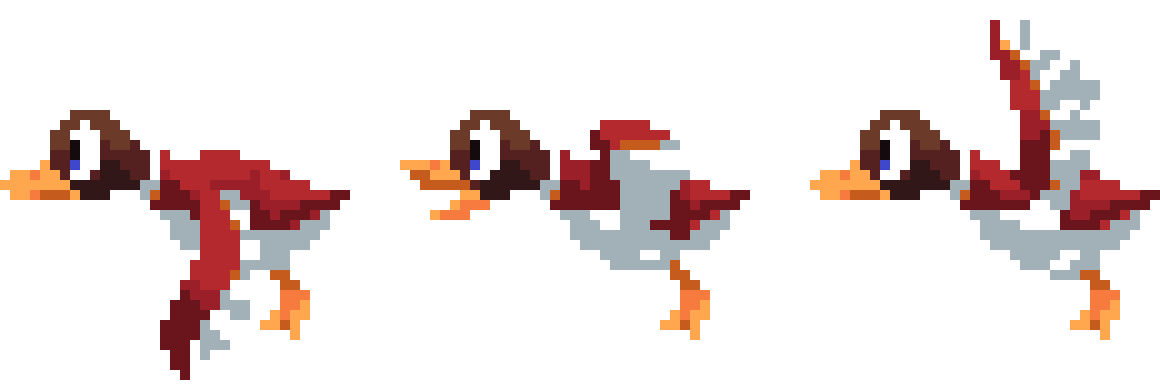
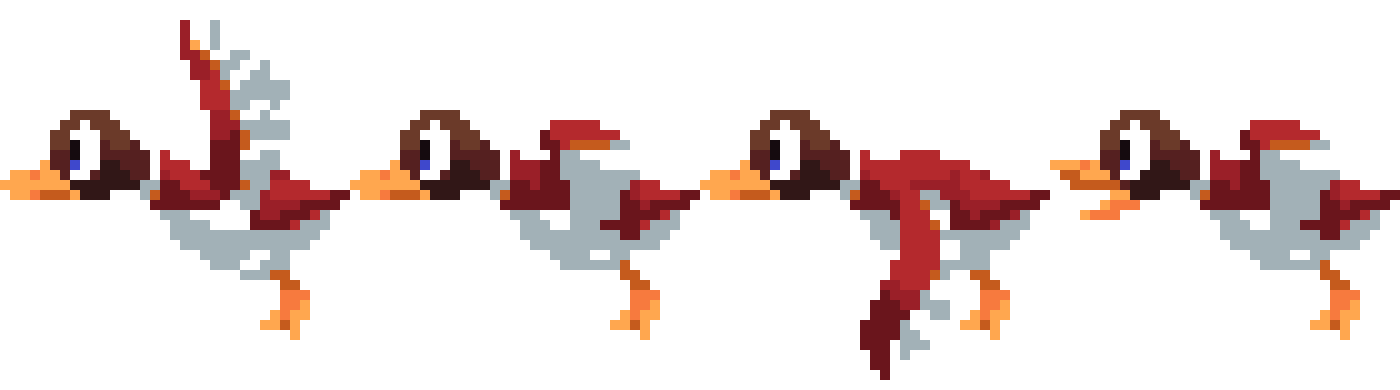
Added more sprites

Changed region(s): [[0.0, 0.0308, 0.9931, 0.9846]]

diff --git a/main.js b/main.js
@@ -182,10 +182,12 @@ function Duck() {
     } else {
       this.x += this.vx;
       this.y += this.vy;
-    }    
+    }
   };
   this.flewAway = () => {
-    if (this.isFalling) {return}
+    if (this.isFalling) {
+      return;
+    }
     if (Math.floor((frames - this.iframe) / fps) > 15) {
       this.isGone = true;
       this.isFlying = false;
@@ -193,9 +195,11 @@ function Duck() {
       this.vx = 0;
       this.vy = vMult * -10;
     }
-  }
+  };
   this.gotShot = () => {
-    if(this.isGone) {return}
+    if (this.isGone) {
+      return;
+    }
     this.color = "red";
     this.vx = 0;
     this.vy = vMult * 10;
@@ -312,29 +316,28 @@ function Round(n) {
   this.nduck = 40;
   this.numducks = 0;
   this.roundended = false;
-  this.nextRound = false
+  this.nextRound = false;
   this.fframe;
   this.refresh = () => {
     if (this.n === 0) {
       if (frames - this.iframe >= 40) {
-        this.nextRound = true
+        this.nextRound = true;
       }
-      return
+      return;
     }
     if (this.roundended) {
       if (ducks.length === 0 && frames - this.fframe >= 40) {
         if (duckHit.reduce((a, b) => a + b, 0) < 6) {
           gameOver();
         } else {
-          this.nextRound = true
+          this.nextRound = true;
         }
       }
-      
-    } else {      
+    } else {
       let random = Math.floor(1 + Math.random() * 5);
       this.cframe = frames - this.iframe;
-      if(this.cframe <= 35) {
-        drawRound()
+      if (this.cframe <= 35) {
+        drawRound();
       }
       if (this.cframe === this.nduck) {
         ducks.push(new Duck());
@@ -344,7 +347,7 @@ function Round(n) {
       }
       if (this.numducks >= 10) {
         this.roundended = true;
-        this.fframe = frames
+        this.fframe = frames;
       }
     }
   };
@@ -372,7 +375,12 @@ function pause() {
 function gameOver() {
   isPaused = true;
   ctx.fillStyle = "rgb(0,0,0,0.35)";
-  ctx.fillRect(canvas.width/4, canvas.height/4, canvas.width/2, canvas.height/2);
+  ctx.fillRect(
+    canvas.width / 4,
+    canvas.height / 4,
+    canvas.width / 2,
+    canvas.height / 2
+  );
   ctx.fillStyle = "rgb(240,70,51)";
   ctx.font = '80px "Duck Hunt"';
   ctx.textAlign = "center";
@@ -382,9 +390,15 @@ function gameOver() {
 
 function drawRound() {
   //ctx.fillStyle = "rgb(0,0,0,0.85)";
-  let image = new Image()
-  image.src = images.rndui
-  ctx.drawImage(image,canvas.width*1/3+25, canvas.height*1/3-25,canvas.width*1/3-50, canvas.height*1/3-50)
+  let image = new Image();
+  image.src = images.rndui;
+  ctx.drawImage(
+    image,
+    (canvas.width * 1) / 3 + 25,
+    (canvas.height * 1) / 3 - 25,
+    (canvas.width * 1) / 3 - 50,
+    (canvas.height * 1) / 3 - 50
+  );
   //ctx.fillRect(canvas.width*1/3, canvas.height*1/3, canvas.width*1/3, canvas.height*1/3);
   ctx.fillStyle = "white";
   ctx.font = '80px "Duck Hunt"';
@@ -418,10 +432,10 @@ function update() {
   environment.draw();
   scoreboard.draw();
   roundInst.refresh();
-  if(roundInst.nextRound) {
-    round++
-    roundInst = new Round(round)
-    bullets = 20
+  if (roundInst.nextRound) {
+    round++;
+    roundInst = new Round(round);
+    bullets = 20;
     duckHit = [0, 0, 0, 0, 0, 0, 0, 0, 0, 0];
     duckHitIndex = 0;
   }
@@ -577,32 +591,32 @@ function registerShot(e) {
     i = keycodes[0].indexOf(e);
     x = 0 + i * keywidth;
     y = 0;
-    ctx.fillStyle = 'white'
-    ctx.fillRect(0,0,canvas.width,canvas.height)
+    ctx.fillStyle = "white";
+    ctx.fillRect(0, 0, canvas.width, canvas.height);
     ctx.drawImage(cross, x, y, keywidth, keyheight);
   }
   if (keycodes[1].indexOf(e) !== -1) {
     i = keycodes[1].indexOf(e);
     x = keywidth * 0.5 + i * keywidth;
     y = keyheight;
-    ctx.fillStyle = 'white'
-    ctx.fillRect(0,0,canvas.width,canvas.height)
+    ctx.fillStyle = "white";
+    ctx.fillRect(0, 0, canvas.width, canvas.height);
     ctx.drawImage(cross, x, y, keywidth, keyheight);
   }
   if (keycodes[2].indexOf(e) !== -1) {
     i = keycodes[2].indexOf(e);
     x = keywidth + i * keywidth;
     y = keyheight * 2;
-    ctx.fillStyle = 'white'
-    ctx.fillRect(0,0,canvas.width,canvas.height)
+    ctx.fillStyle = "white";
+    ctx.fillRect(0, 0, canvas.width, canvas.height);
     ctx.drawImage(cross, x, y, keywidth, keyheight);
   }
   if (keycodes[3].indexOf(e) !== -1) {
     i = keycodes[3].indexOf(e);
     x = keywidth * 1.5 + i * keywidth;
     y = keyheight * 3;
-    ctx.fillStyle = 'white'
-    ctx.fillRect(0,0,canvas.width,canvas.height)
+    ctx.fillStyle = "white";
+    ctx.fillRect(0, 0, canvas.width, canvas.height);
     ctx.drawImage(cross, x, y, keywidth, keyheight);
   }
   if (i >= 0) {
@@ -666,8 +680,8 @@ addEventListener("keypress", e => {
       let rand = Math.floor(Math.random() * ducks.length);
       if (ducks[rand].isFlying) {
         ducks[rand].gotShot();
-        ctx.fillStyle = 'white'
-        ctx.fillRect(0,0,canvas.width,canvas.height)
+        ctx.fillStyle = "white";
+        ctx.fillRect(0, 0, canvas.width, canvas.height);
         bullets--;
       }
     }
@@ -691,11 +705,11 @@ button2.addEventListener("click", function() {
   if (button2.innerText === "Co-Op Disabled") {
     button2.innerText = "Co-Op Enabled";
     button2.classList.add("pushed");
-    canvas.style.backgroundImage = 'url("./images/sunset.png")'
+    canvas.style.backgroundImage = 'url("./images/sunset.png")';
   } else {
     button2.innerText = "Co-Op Disabled";
     button2.classList.remove("pushed");
-    canvas.style.backgroundImage = 'url("./images/background.png")'
+    canvas.style.backgroundImage = 'url("./images/background.png")';
   }
   button2.blur();
 });

diff --git a/spriteTests.js b/spriteTests.js
@@ -4,37 +4,62 @@ canvas.height = 600;
 let ctx = canvas.getContext("2d");
 sprites = {
   dogwalk: {
-    src: "./images/dogwalkingHD.png",
+    src: "./images/dogwalking.png",
     w: 520,
     h: 420,
     f: [0,0,0,0,1,1,1,1,2,2,2,2,3,3,3,3,0,0,0,0,1,1,1,1,2,2,2,2,3,3,3,3,4,4,4,4,4,4,4,4,0,0,0,0,4,4,4,4,4,4,4,4,0,0,0,0]
   },
   dogbarking: {
-    src: "./images/dogbarkingHD.png"
+    src: "./images/dogbarking.png"
+  },
+  gducksR:{
+    src: "./images/gducksR.png",
+    w:350,
+    h:378,
+    f: [0,0,1,1,2,2,1,1,0,0,1,1,2,2,1,1,0,0,1,1,2,2,3,3] 
+  },
+  gducksL:{
+    src: "./images/gducksL.png",
+    w:350,
+    h:378,
+    f: [0,0,1,1,2,2,1,1,0,0,1,1,2,2,1,1,0,0,1,1,2,2,3,3] 
+  },
+  rducksR:{
+    src: "./images/rducksR.png",
+    w:350,
+    h:378,
+    f: [0,0,1,1,2,2,1,1,0,0,1,1,2,2,1,1,0,0,1,1,2,2,3,3] 
+  },
+  rducksL:{
+    src: "./images/rducksL.png",
+    w:350,
+    h:378,
+    f: [0,0,1,1,2,2,1,1,0,0,1,1,2,2,1,1,0,0,1,1,2,2,3,3] 
+  },
+  pducksR:{
+    src: "./images/pducksR.png",
+    w:350,
+    h:378,
+    f: [0,0,1,1,2,2,1,1,0,0,1,1,2,2,1,1,0,0,1,1,2,2,3,3] 
+  },
+  pducksL:{
+    src: "./images/pducksL.png",
+    w:350,
+    h:378,
+    f: [0,0,1,1,2,2,1,1,0,0,1,1,2,2,1,1,0,0,1,1,2,2,3,3] 
   }
 };
 
-function Horse() {
-  this.x = 0;
-  this.y = 0;
-  this.w = 520;
-  this.h = 420;
+function Horse(x=0,y=0) {
+  this.x = x;
+  this.y = y;
+  this.w = 131.25
+  this.h = 141.75
   this.image = new Image();
   this.sc = 0;
   this.animate = sprite => {
     this.image.src = sprite.src;
-    ctx.clearRect(0, 0, canvas.width, canvas.height);
-    ctx.drawImage(
-      this.image,
-      sprite.w * sprite.f[this.sc],
-      0,
-      sprite.w,
-      sprite.h,
-      this.x,
-      this.y,
-      this.w,
-      this.h
-    );
+    ctx.drawImage(this.image, sprite.w * sprite.f[this.sc], 0, sprite.w, sprite.h, this.x, this.y, this.w, this.h);
     this.sc++;
     if (this.sc >= sprite.f.length) {
       this.sc = 0;
@@ -42,9 +67,16 @@ function Horse() {
   };
 }
 
-let horse = new Horse();
+let horse1 = new Horse();
+let horse2 = new Horse(150,0)
+let horse3 = new Horse(300,0)
+let horse4 = new Horse(450,0)
 
 function start() {
-  horse.animate(sprites.dogwalk);
+  ctx.clearRect(0, 0, canvas.width, canvas.height);
+  horse1.animate(sprites.gducksR);
+  horse2.animate(sprites.gducksL);
+  horse3.animate(sprites.rducksR);
+  horse4.animate(sprites.rducksL);
 }
 setInterval(start, 1000 / 20);
